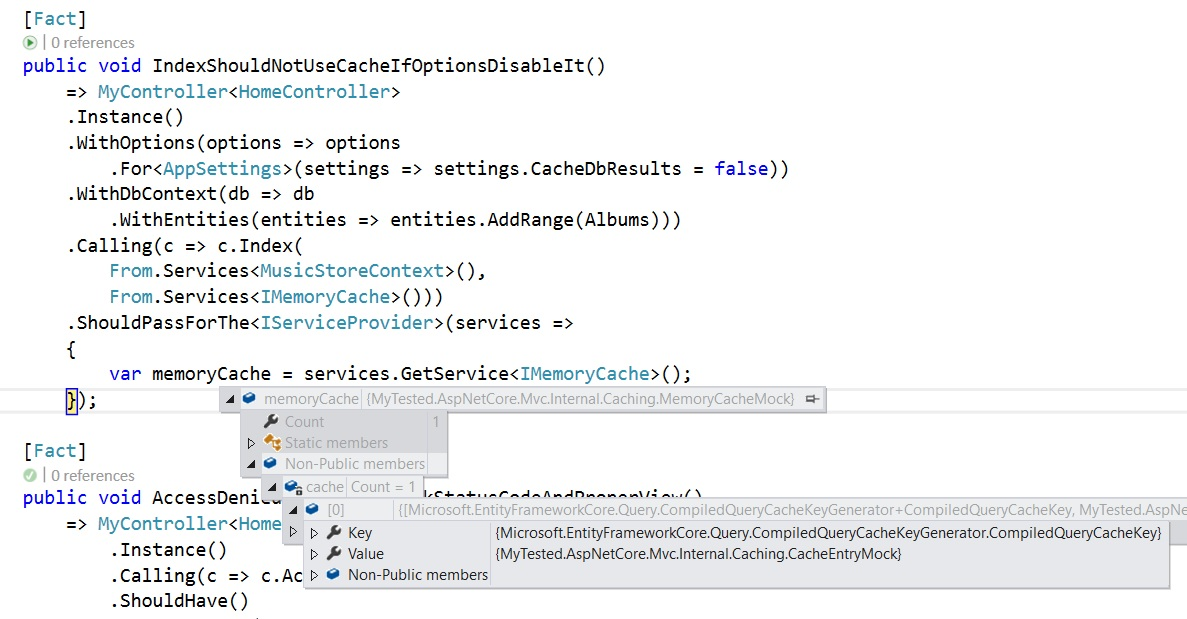
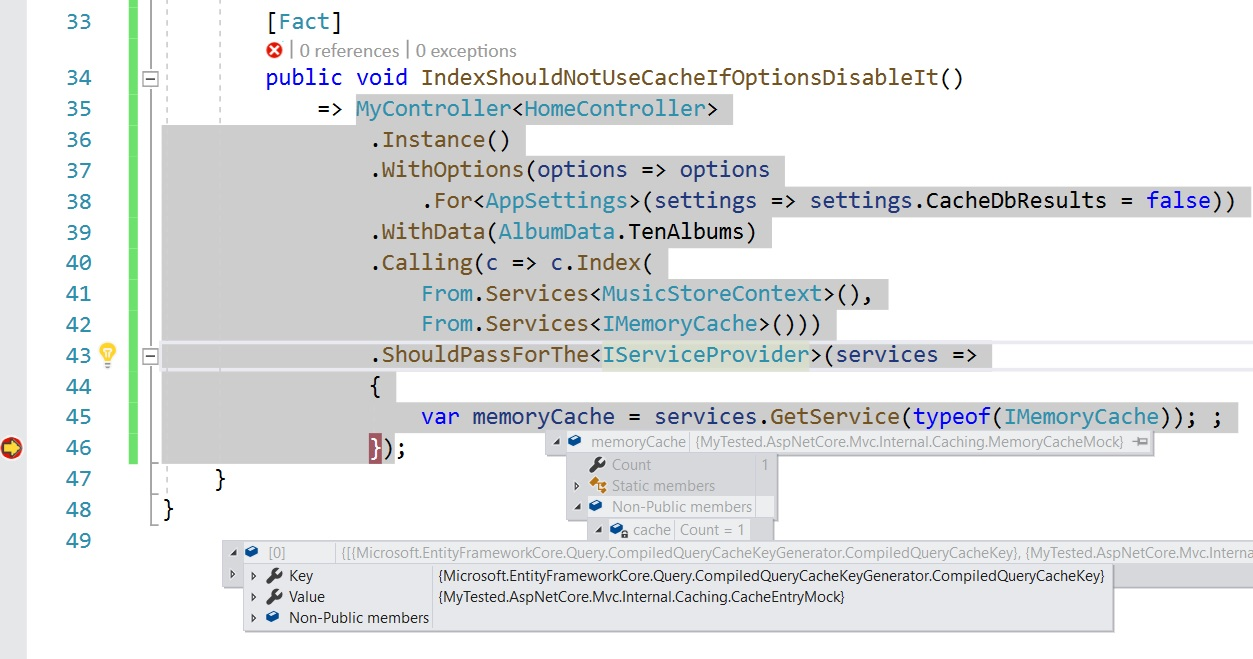
Updated the Session & Cache section in the tutorial

diff --git a/docs/_docfx/tutorial/sessioncache.md b/docs/_docfx/tutorial/sessioncache.md
@@ -9,34 +9,32 @@ To use the built-in session capabilities of My Tested ASP.NET Core MVC, we need 
 ```xml
 <!-- Other ItemGroups -->
 
-<ItemGroup>
+  <ItemGroup>
     <PackageReference Include="Microsoft.AspNetCore.App" />
-    <PackageReference Include="Microsoft.NET.Test.Sdk" Version="16.2.0" />
+    <PackageReference Include="Microsoft.NET.Test.Sdk" Version="16.0.1" />
     <PackageReference Include="Moq" Version="4.13.0" />
     <PackageReference Include="MyTested.AspNetCore.Mvc.Authentication" Version="2.2.0" />
     <PackageReference Include="MyTested.AspNetCore.Mvc.Controllers" Version="2.2.0" />
     <PackageReference Include="MyTested.AspNetCore.Mvc.Controllers.ActionResults" Version="2.2.0" />
+    <PackageReference Include="MyTested.AspNetCore.Mvc.Controllers.Attributes" Version="2.2.0" />
     <PackageReference Include="MyTested.AspNetCore.Mvc.Controllers.Views" Version="2.2.0" />
+    <PackageReference Include="MyTested.AspNetCore.Mvc.Controllers.Views.ActionResults" Version="2.2.0" />
     <PackageReference Include="MyTested.AspNetCore.Mvc.DependencyInjection" Version="2.2.0" />
     <PackageReference Include="MyTested.AspNetCore.Mvc.EntityFrameworkCore" Version="2.2.0" />
-    <PackageReference Include="MyTested.AspNetCore.Mvc.Helpers" Version="2.2.0" />
     <PackageReference Include="MyTested.AspNetCore.Mvc.Http" Version="2.2.0" />
     <PackageReference Include="MyTested.AspNetCore.Mvc.Models" Version="2.2.0" />
     <PackageReference Include="MyTested.AspNetCore.Mvc.ModelState" Version="2.2.0" />
     <PackageReference Include="MyTested.AspNetCore.Mvc.Options" Version="2.2.0" />
+	<!-- MyTested.AspNetCore.Mvc.Session package -->
     <PackageReference Include="MyTested.AspNetCore.Mvc.Session" Version="2.2.0" />
-
-    <PackageReference Include="xunit" Version="2.4.1" />
-    <PackageReference Include="xunit.runner.visualstudio" Version="2.4.1">
-      <PrivateAssets>all</PrivateAssets>
-      <IncludeAssets>runtime; build; native; contentfiles; analyzers; buildtransitive</IncludeAssets>
-    </PackageReference>
-</ItemGroup>
+    <PackageReference Include="xunit" Version="2.4.0" />
+    <PackageReference Include="xunit.runner.visualstudio" Version="2.4.0" />
+  </ItemGroup>
 
 <!-- Other ItemGroups -->
 ```
 
-Adding this package will replace the default session services with scoped mocks, which are empty at the beginning of each test. It's quite easy to test with them. Let's see! :)
+Adding this package will replace the default session services with scoped mocks, which are cleared at the beginning of each test. It's quite easy to test with them. Let's see! :)
 
 We will test the **"AddToCart"** action in the **"ShoppingCartController"**. If you examine the method, you will see it calls **"ShoppingCart.GetCart"**, which creates a session entry containing the cart ID:
 
@@ -59,74 +57,73 @@ return cartId;
 Let's assert that if the session is initially empty, an entry with **"Session"** key should be added after the action invocation. Go to the **"ShoppingCartControllerTest"** class and insert the following test:
 
 ```c#
-[Fact]
-public void AddToCartShouldPopulateSessionCartIfMissing()
+[Theory]
+[InlineData(1)]
+public void AddToCartShouldPopulateSessionCartIfMissing(int albumId)
     => MyController<ShoppingCartController>
         .Instance()
-        .WithData(db => db
-            .WithEntities(entities => entities
-                .Add(new Album { AlbumId = 1 })))
-        .Calling(c => c.AddToCart(1))
+        .WithData(new Album { AlbumId = albumId })
+        .Calling(c => c.AddToCart(albumId, CancellationToken.None))
         .ShouldHave()
-        .Session(session => session
+        .Session(session => session // <--
             .ContainingEntryWithKey("Session"));
 ```
 
 Next, let's assert that the cart item is actually saved into the database. We will need to provide a custom shopping cart ID by using the **"WithSession"** method:
 
 ```c#
-[Fact]
-public void AddToCartShouldSaveTheAlbumsIntoDatabaseAndSession()
+[Theory]
+[InlineData(1, "TestCart")]
+public void AddToCartShouldSaveTheAlbumsIntoDatabaseAndSession(
+    int albumId, 
+    string sessionValue)
     => MyController<ShoppingCartController>
         .Instance()
-        .WithSession(session => session.WithEntry("Session", "TestCart")) // <---
-        .WithData(db => db
-            .WithEntities(entities => entities
-                .Add(new Album { AlbumId = 1 })))
-        .Calling(c => c.AddToCart(1))
+        .WithSession(session => session // <--
+            .WithEntry("Session", sessionValue))
+        .WithData(new Album { AlbumId = albumId })
+        .Calling(c => c.AddToCart(albumId, CancellationToken.None))
         .ShouldHave()
-        .DbContext(db => db // <---
+        .Data(data => data // <--
             .WithSet<CartItem>(cartItems => cartItems
-                .Any(a => a.AlbumId == 1 && a.CartId == "TestCart")))
+                .Any(a => a.AlbumId == albumId && a.CartId == sessionValue)))
         .AndAlso()
         .ShouldReturn()
-        .Redirect(r => r
+        .Redirect(result => result
             .ToAction(nameof(ShoppingCartController.Index)));
 ```
 
-Of course, you can extract the magic strings... :)
+Of course, extracting the magic constants with a theory and an inline data is a preferred way to follow the best practices... :)
 
 ## Cache
 
-For the caching assertions, we will need **"MyTested.AspNetCore.Mvc.Caching"** as a dependency. Go and add it to the **"MusicStore.Test.csproj"**:
+For the caching assertions, we will need **"MyTested.AspNetCore.Mvc.Caching"** as a dependency. Add it to the **"MusicStore.Test.csproj"**:
 
 ```xml
 <!-- Other ItemGroups -->
 
-<ItemGroup>
+  <ItemGroup>
     <PackageReference Include="Microsoft.AspNetCore.App" />
-    <PackageReference Include="Microsoft.NET.Test.Sdk" Version="16.2.0" />
+    <PackageReference Include="Microsoft.NET.Test.Sdk" Version="16.0.1" />
     <PackageReference Include="Moq" Version="4.13.0" />
     <PackageReference Include="MyTested.AspNetCore.Mvc.Authentication" Version="2.2.0" />
+	<!-- MyTested.AspNetCore.Mvc.Caching package -->
     <PackageReference Include="MyTested.AspNetCore.Mvc.Caching" Version="2.2.0" />
     <PackageReference Include="MyTested.AspNetCore.Mvc.Controllers" Version="2.2.0" />
     <PackageReference Include="MyTested.AspNetCore.Mvc.Controllers.ActionResults" Version="2.2.0" />
+    <PackageReference Include="MyTested.AspNetCore.Mvc.Controllers.Attributes" Version="2.2.0" />
     <PackageReference Include="MyTested.AspNetCore.Mvc.Controllers.Views" Version="2.2.0" />
+    <PackageReference Include="MyTested.AspNetCore.Mvc.Controllers.Views.ActionResults" Version="2.2.0" />
     <PackageReference Include="MyTested.AspNetCore.Mvc.DependencyInjection" Version="2.2.0" />
     <PackageReference Include="MyTested.AspNetCore.Mvc.EntityFrameworkCore" Version="2.2.0" />
-    <PackageReference Include="MyTested.AspNetCore.Mvc.Helpers" Version="2.2.0" />
     <PackageReference Include="MyTested.AspNetCore.Mvc.Http" Version="2.2.0" />
     <PackageReference Include="MyTested.AspNetCore.Mvc.Models" Version="2.2.0" />
     <PackageReference Include="MyTested.AspNetCore.Mvc.ModelState" Version="2.2.0" />
     <PackageReference Include="MyTested.AspNetCore.Mvc.Options" Version="2.2.0" />
     <PackageReference Include="MyTested.AspNetCore.Mvc.Session" Version="2.2.0" />
-
-    <PackageReference Include="xunit" Version="2.4.1" />
-    <PackageReference Include="xunit.runner.visualstudio" Version="2.4.1">
-      <PrivateAssets>all</PrivateAssets>
-      <IncludeAssets>runtime; build; native; contentfiles; analyzers; buildtransitive</IncludeAssets>
-    </PackageReference>
-</ItemGroup>
+    <PackageReference Include="xunit" Version="2.4.0" />
+    <PackageReference Include="xunit.runner.visualstudio" Version="2.4.0" />
+  </ItemGroup>
 
 <!-- Other ItemGroups -->
 ```
@@ -137,7 +134,9 @@ Since the package automatically replaces the default memory cache services with 
 services.ReplaceLifetime<IMemoryCache>(ServiceLifetime.Scoped);
 ```
 
-Remove the above line and rerun all tests to see them pass again. Remember! All scoped services reset their state for each test. The cache ones are not an exception.
+Remove the above line and rerun all tests to see them pass again. 
+
+Remember! All scoped services reset their state after each test. The cache ones are not an exception.
 
 Now, we are going to write three tests against the **"Index"** action in the **"HomeController"**:
 
@@ -166,42 +165,48 @@ return View(albums);
 // code skipped for brevity
 ```
 
-Before we begin, add this helper method to the **"HomeControllerTest"** class:
+Before we begin, create a **"Data"** folder in your test project and add this class in it:
 
 ```c#
-private static Album[] Albums
+using MusicStore.Models;
+using System.Linq;
+
+public class AlbumData
 {
-    get
+    public static Album[] Many
     {
-        var genres = Enumerable.Range(1, 10).Select(n =>
-        new Genre()
+        get
         {
-            GenreId = n,
-            Name = "Genre Name " + n,
-        }).ToArray();
-
-        var artists = Enumerable.Range(1, 10).Select(n =>
-            new Artist()
+            var genres = Enumerable.Range(1, 10).Select(n =>
+            new Genre()
             {
-                ArtistId = n + 1,
-                Name = "Artist Name " + n,
-            }).ToArray();
-
-        var albums = Enumerable.Range(1, 10).Select(n =>
-            new Album()
-            {
-                Artist = artists[n - 1],
-                ArtistId = n,
-                Genre = genres[n - 1],
                 GenreId = n,
+                Name = "Genre Name " + n,
             }).ToArray();
 
-        return albums;
+            var artists = Enumerable.Range(1, 10).Select(n =>
+                new Artist()
+                {
+                    ArtistId = n + 1,
+                    Name = "Artist Name " + n,
+                }).ToArray();
+
+            var albums = Enumerable.Range(1, 10).Select(n =>
+                new Album()
+                {
+                    Artist = artists[n - 1],
+                    ArtistId = n,
+                    Genre = genres[n - 1],
+                    GenreId = n,
+                }).ToArray();
+
+            return albums;
+        }
     }
 }
 ```
 
-OK, let's assert! :)
+OK, let's assert the **"HomeController"**! :)
 
 First, we should test that no cache entries are saved if the **"CacheDbResults"** setting is set to **"false"**:
 
@@ -212,13 +217,12 @@ public void IndexShouldNotUseCacheIfOptionsDisableIt()
         .Instance()
         .WithOptions(options => options
             .For<AppSettings>(settings => settings.CacheDbResults = false))
-        .WithData(db => db
-            .WithEntities(entities => entities.AddRange(Albums)))
+        .WithData(AlbumData.Many)
         .Calling(c => c.Index(
             From.Services<MusicStoreContext>(),
             From.Services<IMemoryCache>()))
         .ShouldHave()
-        .NoMemoryCache(); // <---
+        .NoMemoryCache(); // <--
 ```
 
 Unfortunately, the **"NoMemoryCache"** call will not work:
@@ -232,8 +236,7 @@ With straightforward action debugging we may not see what exactly is going on be
 Easy! Add these lines:
 
 ```c#
-.WithData(db => db
-    .WithEntities(entities => entities.AddRange(Albums)))
+.WithData(AlbumData.Many)
 .Calling(c => c.Index(
     From.Services<MusicStoreContext>(),
     From.Services<IMemoryCache>()))
@@ -257,59 +260,60 @@ One of the possible fixes is:
     .GetRequiredService<IMemoryCache>().Get("topselling")));
 ```
 
-You may use custom mocks too, but it is not necessary.
+You may use custom mocks too, but it is not necessary. In future versions of the library, the above experience will be improved. 
 
 Next, we should assert that with the **"CacheDbResults"** set to **"true"**, we should have saved cache entries from the database query:
 
 ```c#
-[Fact]
-public void IndexShouldSaveCorrectCacheEntriesIfOptionsEnableIt()
+[Theory]
+[InlineData(6)]
+public void IndexShouldSaveCorrectCacheEntriesIfOptionsEnableIt(int totalAlbums)
     => MyController<HomeController>
         .Instance()
         .WithOptions(options => options
             .For<AppSettings>(settings => settings.CacheDbResults = true))
-        .WithData(db => db
-            .WithEntities(entities => entities.AddRange(Albums)))
+        .WithData(AlbumData.Many)
         .Calling(c => c.Index(
             From.Services<MusicStoreContext>(),
             From.Services<IMemoryCache>()))
         .ShouldHave()
-        .MemoryCache(cache => cache // <---
+        .MemoryCache(cache => cache // <--
             .ContainingEntry(entry => entry
                 .WithKey("topselling")
                 .WithPriority(CacheItemPriority.High)
                 .WithAbsoluteExpirationRelativeToNow(TimeSpan.FromMinutes(10))
                 .WithValueOfType<List<Album>>()
-                .Passing(albums => albums.Count == 6)))
+                .Passing(albums => albums.Count == totalAlbums)))
         .AndAlso()
         .ShouldReturn()
-        .View(v => v
+        .View(result => result
             .WithModelOfType<List<Album>>()
-            .Passing(albums => albums.Count == 6));
+            .Passing(albums => albums.Count == totalAlbums));
 ```
 
 Finally, we should validate that if the cache contains the albums entry, no database query should be called. We will use an empty database and assert the view model:
 
 ```c#
-[Fact]
-public void IndexShouldGetAlbumsFromCacheIfEntryExists()
+[Theory]
+[InlineData(6)]
+public void IndexShouldGetAlbumsFromCacheIfEntryExists(int totalAlbums)
     => MyController<HomeController>
         .Instance()
         .WithOptions(options => options
             .For<AppSettings>(settings => settings.CacheDbResults = true))
         .WithMemoryCache(cache => cache
-            .WithEntry("topselling", Albums.Take(6).ToList()))
+            .WithEntry("topselling", AlbumData.Many.Take(totalAlbums).ToList()))
         .Calling(c => c.Index(
             From.Services<MusicStoreContext>(),
             From.Services<IMemoryCache>()))
         .ShouldReturn()
-        .View()
-        .WithModelOfType<List<Album>>()
-        .Passing(albums => albums.Count == 6);
+        .View(result => result
+            .WithModelOfType<List<Album>>()
+            .Passing(albums => albums.Count == totalAlbums));
 ```
 
 This way we validate that the entries are retrieved from the cache and not from the actual database (which is empty for this particular test).
 
 ## Section summary
 
-Session and cache are fun. By using the **"WithSession"** and **"WithMemoryCache"** methods, you prepare the values to be available during the action call. On the other side, the **"ShouldHave().MemoryCache()"** and **"ShouldHave().Session()"** extensions allows you to assert their values after the invocation. The same principle applies to the [ViewBag, ViewData & TempData](/tutorial/viewbagviewdatatempdata.html).
+Session and cache are fun. By using the **"WithSession"** and **"WithMemoryCache"** methods, you prepare the values to be available during the action call. On the other side, the **"ShouldHave().MemoryCache()"** and the **"ShouldHave().Session()"** extensions allows you to assert their values after the invocation. The same principle applies to the [ViewBag, ViewData & TempData](/tutorial/viewbagviewdatatempdata.html).
